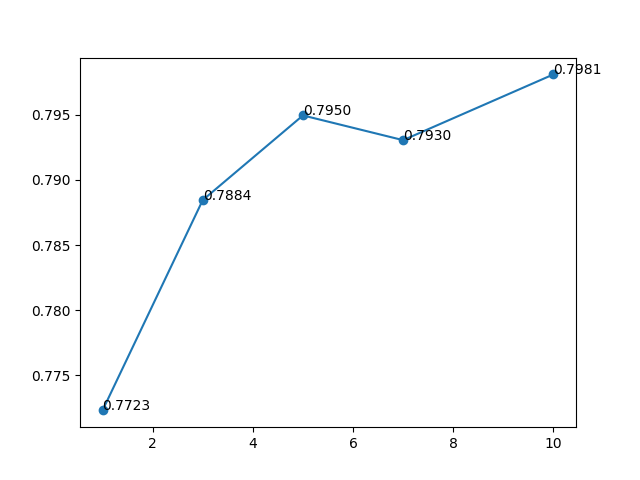
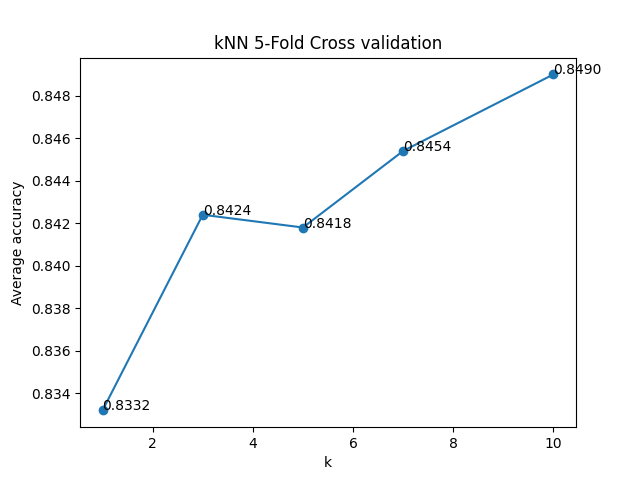
feat(2-4): add self algo result fig

diff --git a/doc/hw3.tex b/doc/hw3.tex
@@ -482,9 +482,9 @@ Use this latex file as a template to develop your homework. Submit your homework
 	      \begin{soln}
 		      \begin{figure}[h]
 			      \centering
-			      \includegraphics[width=0.7\textwidth]{../img/q2-4-ski.png}
-			      \caption*{figure result from skilearn\textsuperscript{[1]}}
-			      \small\textsuperscript{[1]} I used skilearn's result to draw this figure, and the result is slightly different from my own implementation. I do implement two versions of the algorithm (q2-4.py and q2-4\_ski.py), and I give my algorithm the same interface with skilearn, but it just run too slow. When I test the first fold, I get a same result from both algorithm, so I decide to put data from skilearn here.
+			      \includegraphics[width=0.7\textwidth]{../img/q2-4.png}
+
+			      \small I implement two versions of the algorithm (q2-4.py and q2-4\_ski.py), and I give my algorithm the same interface with skilearn. My own implementation's result is slightly different from Skilearn's and the expected one.
 		      \end{figure}
 
 		      \begin{center}
@@ -492,10 +492,10 @@ Use this latex file as a template to develop your homework. Submit your homework
 				      \hline
 				      k  & Accuracy \\ \hline
 				      1  & 0.8332   \\
-				      3  & 0.8422   \\
-				      5  & 0.8408   \\
-				      7  & 0.8462   \\
-				      10 & 0.8556   \\
+				      3  & 0.8424   \\
+				      5  & 0.8418   \\
+				      7  & 0.8454   \\
+				      10 & 0.849    \\
 				      \hline
 			      \end{tabular}
 		      \end{center}

diff --git a/src/hw3/q2-5_ski.py b/src/hw3/q2-5_ski.py
@@ -1,10 +1,10 @@
 import math
 import numpy as np
 from matplotlib import pyplot as plt
+from sklearn.neighbors import KNeighborsClassifier
+from sklearn.linear_model import LogisticRegression
 import sklearn.metrics as met
 
-from hw3.knn import KNN
-from hw3.logistic_regression import LogisticRegression
 
 def main():
     data = np.loadtxt(
@@ -30,13 +30,13 @@ def main():
 def knn(train_data, test_data):
     X_train = train_data[:, 0:-1]
     Y_train = train_data[:, -1].flat
-    knn = KNN(k=5)
+    knn = KNeighborsClassifier(n_neighbors=5)
     knn.fit(X_train, Y_train)
 
     X_test = test_data[:, 0:-1]
     Y_real = test_data[:, -1].flat
 
-    Y_prob = knn.predict_proba(X_test, 1)[:, 1]
+    Y_prob = knn.predict_proba(X_test)[:, 1]
     fpr, tpr, thresholds = met.roc_curve(Y_real, Y_prob)
     auc = met.auc(fpr, tpr)
 
@@ -45,7 +45,7 @@ def knn(train_data, test_data):
 def lg(train_data, test_data):
     X_train = train_data[:, 0:-1]
     Y_train = train_data[:, -1].flat
-    lg = LogisticRegression(num_iterations=100)
+    lg = LogisticRegression(max_iter=1000)
     lg.fit(X_train, Y_train)
 
     X_test = test_data[:, 0:-1]

diff --git a/src/hw3/knn.py b/src/hw3/knn.py
@@ -20,20 +20,20 @@ class KNN:
         return most_common_class
 
     # use the same name with skilearn
-    def predict_proba(self, X, target_label):
+    def predict_proba(self, X, target_label=1):
         return [self.predict_proba_single(x, target_label) for x in X]
 
     def predict_proba_single(self, x, target_label=1):
-        class_votes = self.predict_vote(x)
+        class_votes = self._predict_vote_single(x)
 
         # assertion: label in (0, 1)
         class_probabilities = {}
-        total_neighbors = len(self.k)
+        total_neighbors = self.k
         for label, count in class_votes.items():
             class_probabilities[label] = count / total_neighbors
-        
+
         if not (target_label in class_probabilities):
-          raise Exception('target_label do not exist')
+            raise Exception("target_label do not exist")
 
         return class_probabilities[target_label]
 
